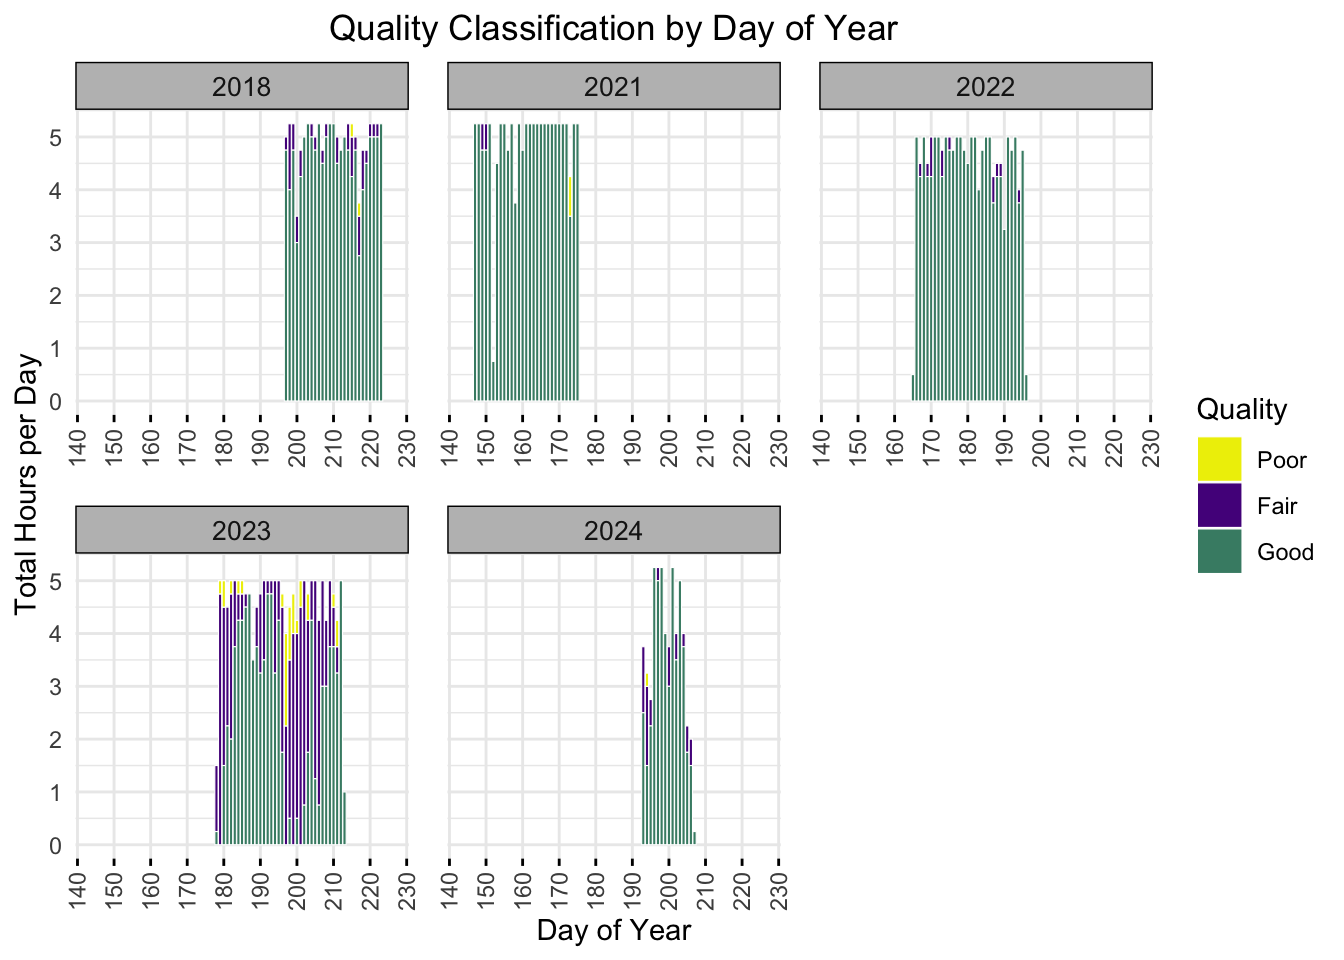
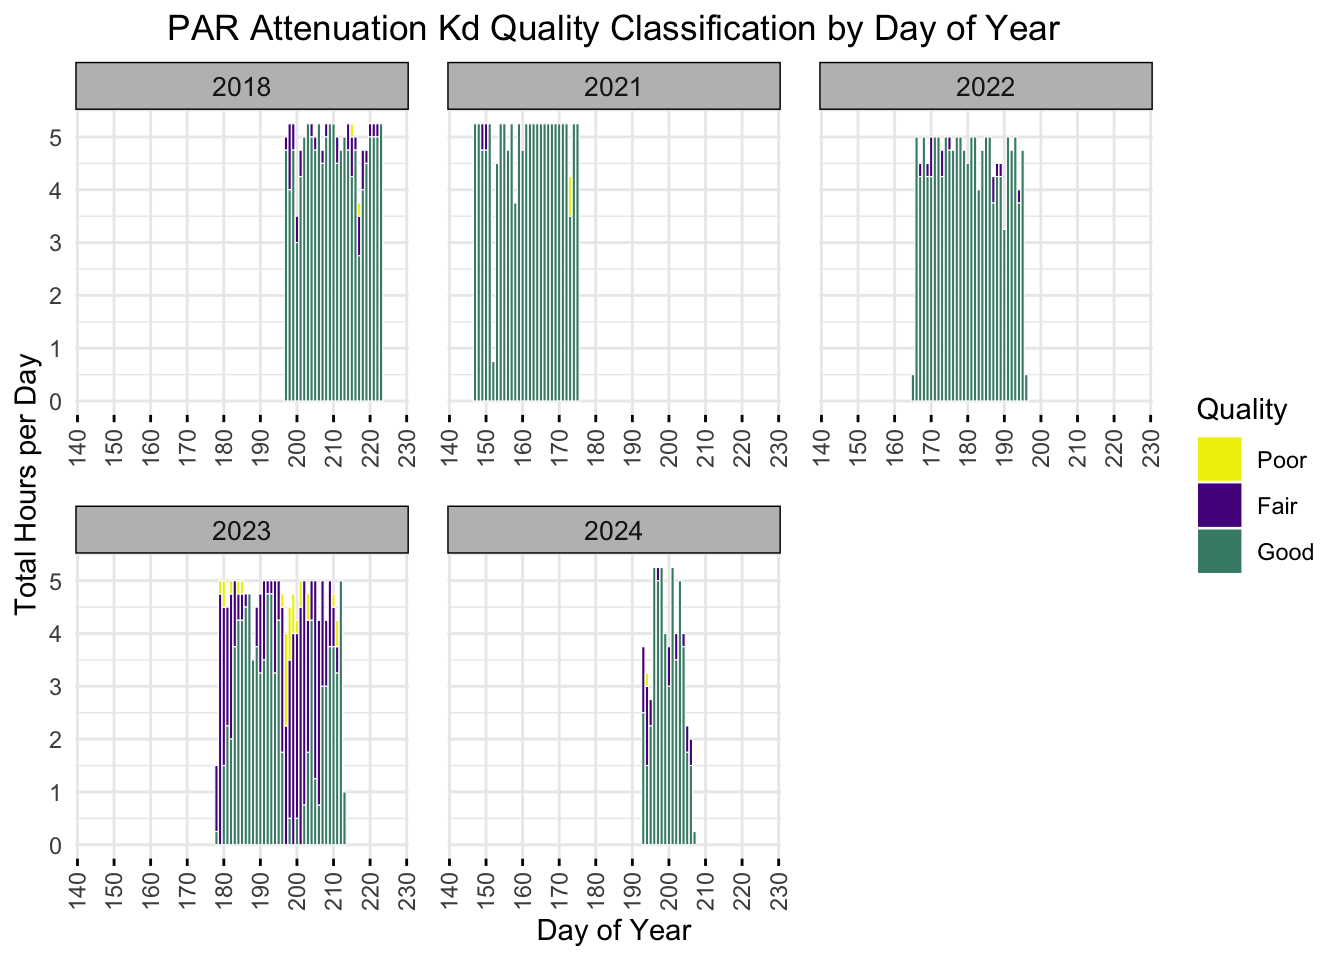
Update Plot Title

Changed region(s): [[0.125, 0.0, 0.7188, 0.0625], [0.7188, 0.0, 0.7812, 0.0625]]

diff --git a/quarto_docs/nps_eelgrass_monitor.html b/quarto_docs/nps_eelgrass_monitor.html
@@ -515,7 +515,7 @@ pre > code.sourceCode > span > a:first-child::before { text-decoration: underlin
 <span id="cb14-21"><a href="#cb14-21" aria-hidden="true" tabindex="-1"></a>  <span class="fu">scale_fill_manual</span>(<span class="at">values =</span> <span class="fu">c</span>(<span class="st">"Poor"</span> <span class="ot">=</span> <span class="st">"yellow2"</span>, <span class="st">"Fair"</span> <span class="ot">=</span> <span class="st">"purple4"</span>, <span class="st">"Good"</span> <span class="ot">=</span> <span class="st">"aquamarine4"</span>)) <span class="sc">+</span></span>
 <span id="cb14-22"><a href="#cb14-22" aria-hidden="true" tabindex="-1"></a>  <span class="fu">scale_x_discrete</span>(<span class="at">limits =</span> <span class="fu">as.character</span>(<span class="dv">140</span><span class="sc">:</span><span class="dv">230</span>), <span class="at">breaks =</span> <span class="fu">seq</span>(<span class="dv">140</span>, <span class="dv">230</span>, <span class="at">by =</span> <span class="dv">10</span>)) <span class="sc">+</span> </span>
 <span id="cb14-23"><a href="#cb14-23" aria-hidden="true" tabindex="-1"></a>  <span class="fu">labs</span>(</span>
-<span id="cb14-24"><a href="#cb14-24" aria-hidden="true" tabindex="-1"></a>    <span class="at">title =</span> <span class="st">"Quality Classification by Day of Year"</span>,</span>
+<span id="cb14-24"><a href="#cb14-24" aria-hidden="true" tabindex="-1"></a>    <span class="at">title =</span> <span class="st">"PAR Attenuation Kd Quality Classification by Day of Year"</span>,</span>
 <span id="cb14-25"><a href="#cb14-25" aria-hidden="true" tabindex="-1"></a>    <span class="at">x =</span> <span class="st">"Day of Year"</span>,</span>
 <span id="cb14-26"><a href="#cb14-26" aria-hidden="true" tabindex="-1"></a>    <span class="at">y =</span> <span class="st">"Total Hours per Day"</span>,</span>
 <span id="cb14-27"><a href="#cb14-27" aria-hidden="true" tabindex="-1"></a>    <span class="at">fill =</span> <span class="st">"Quality"</span></span>
